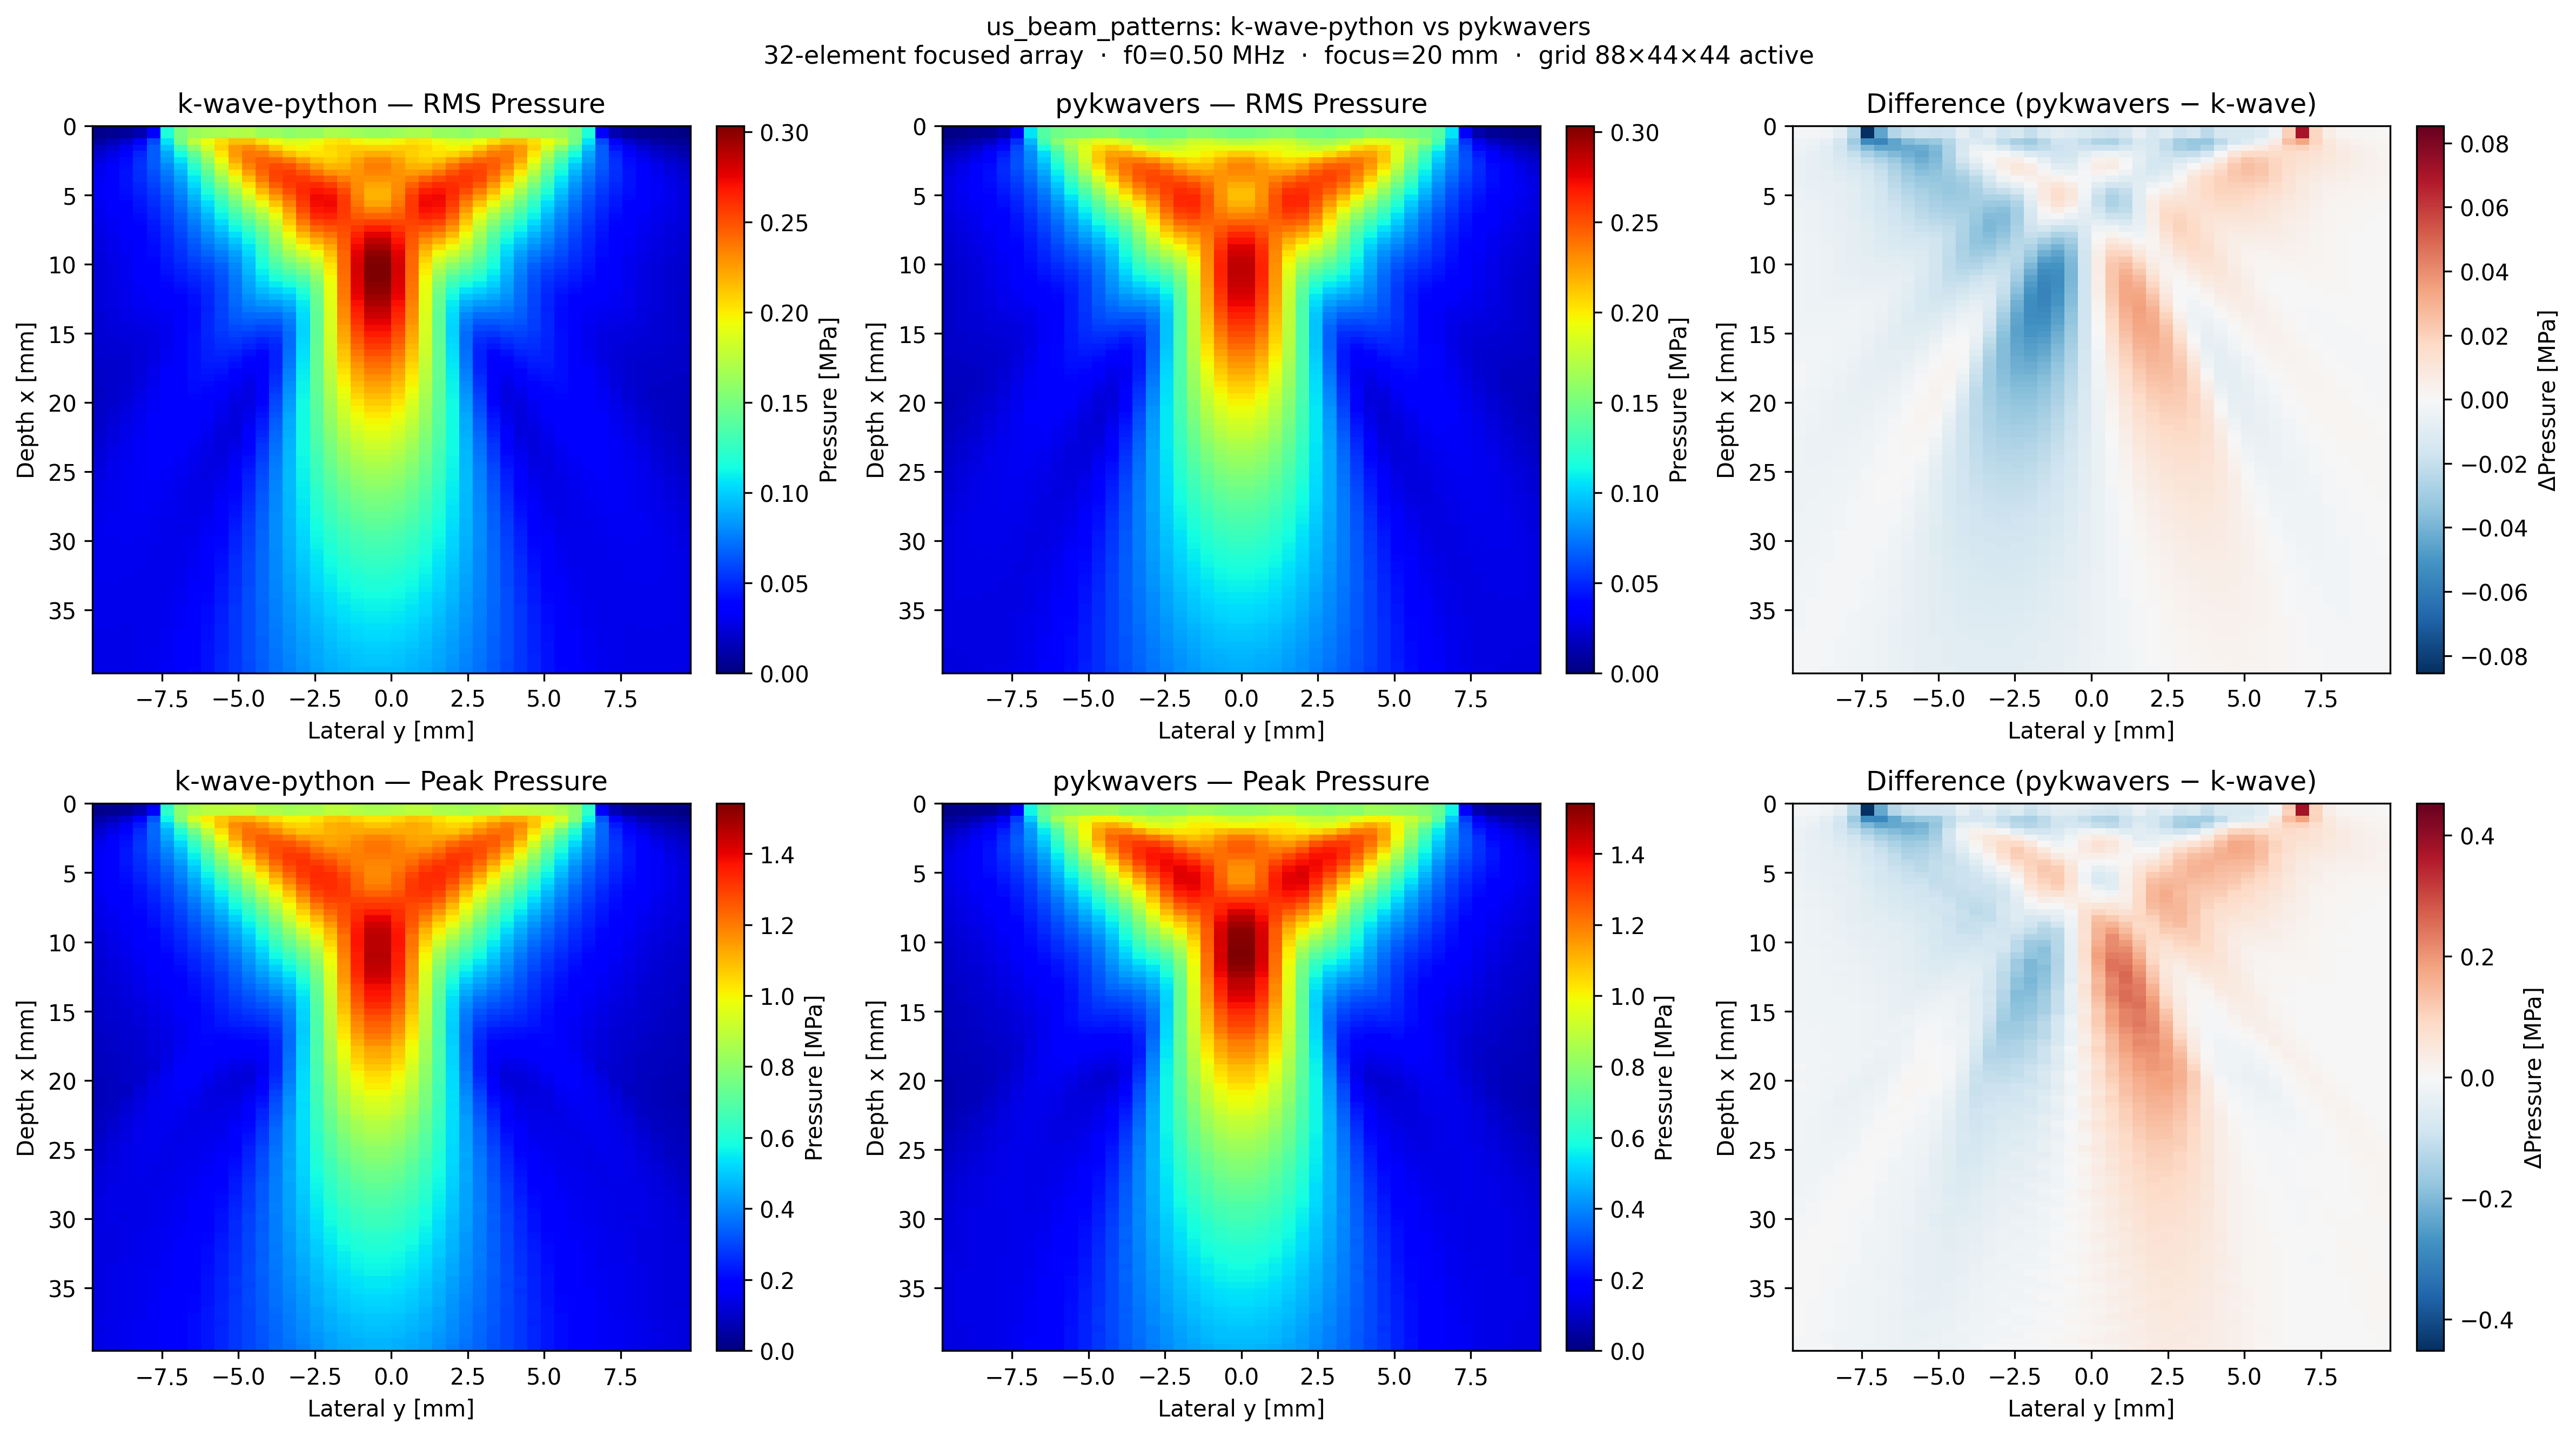
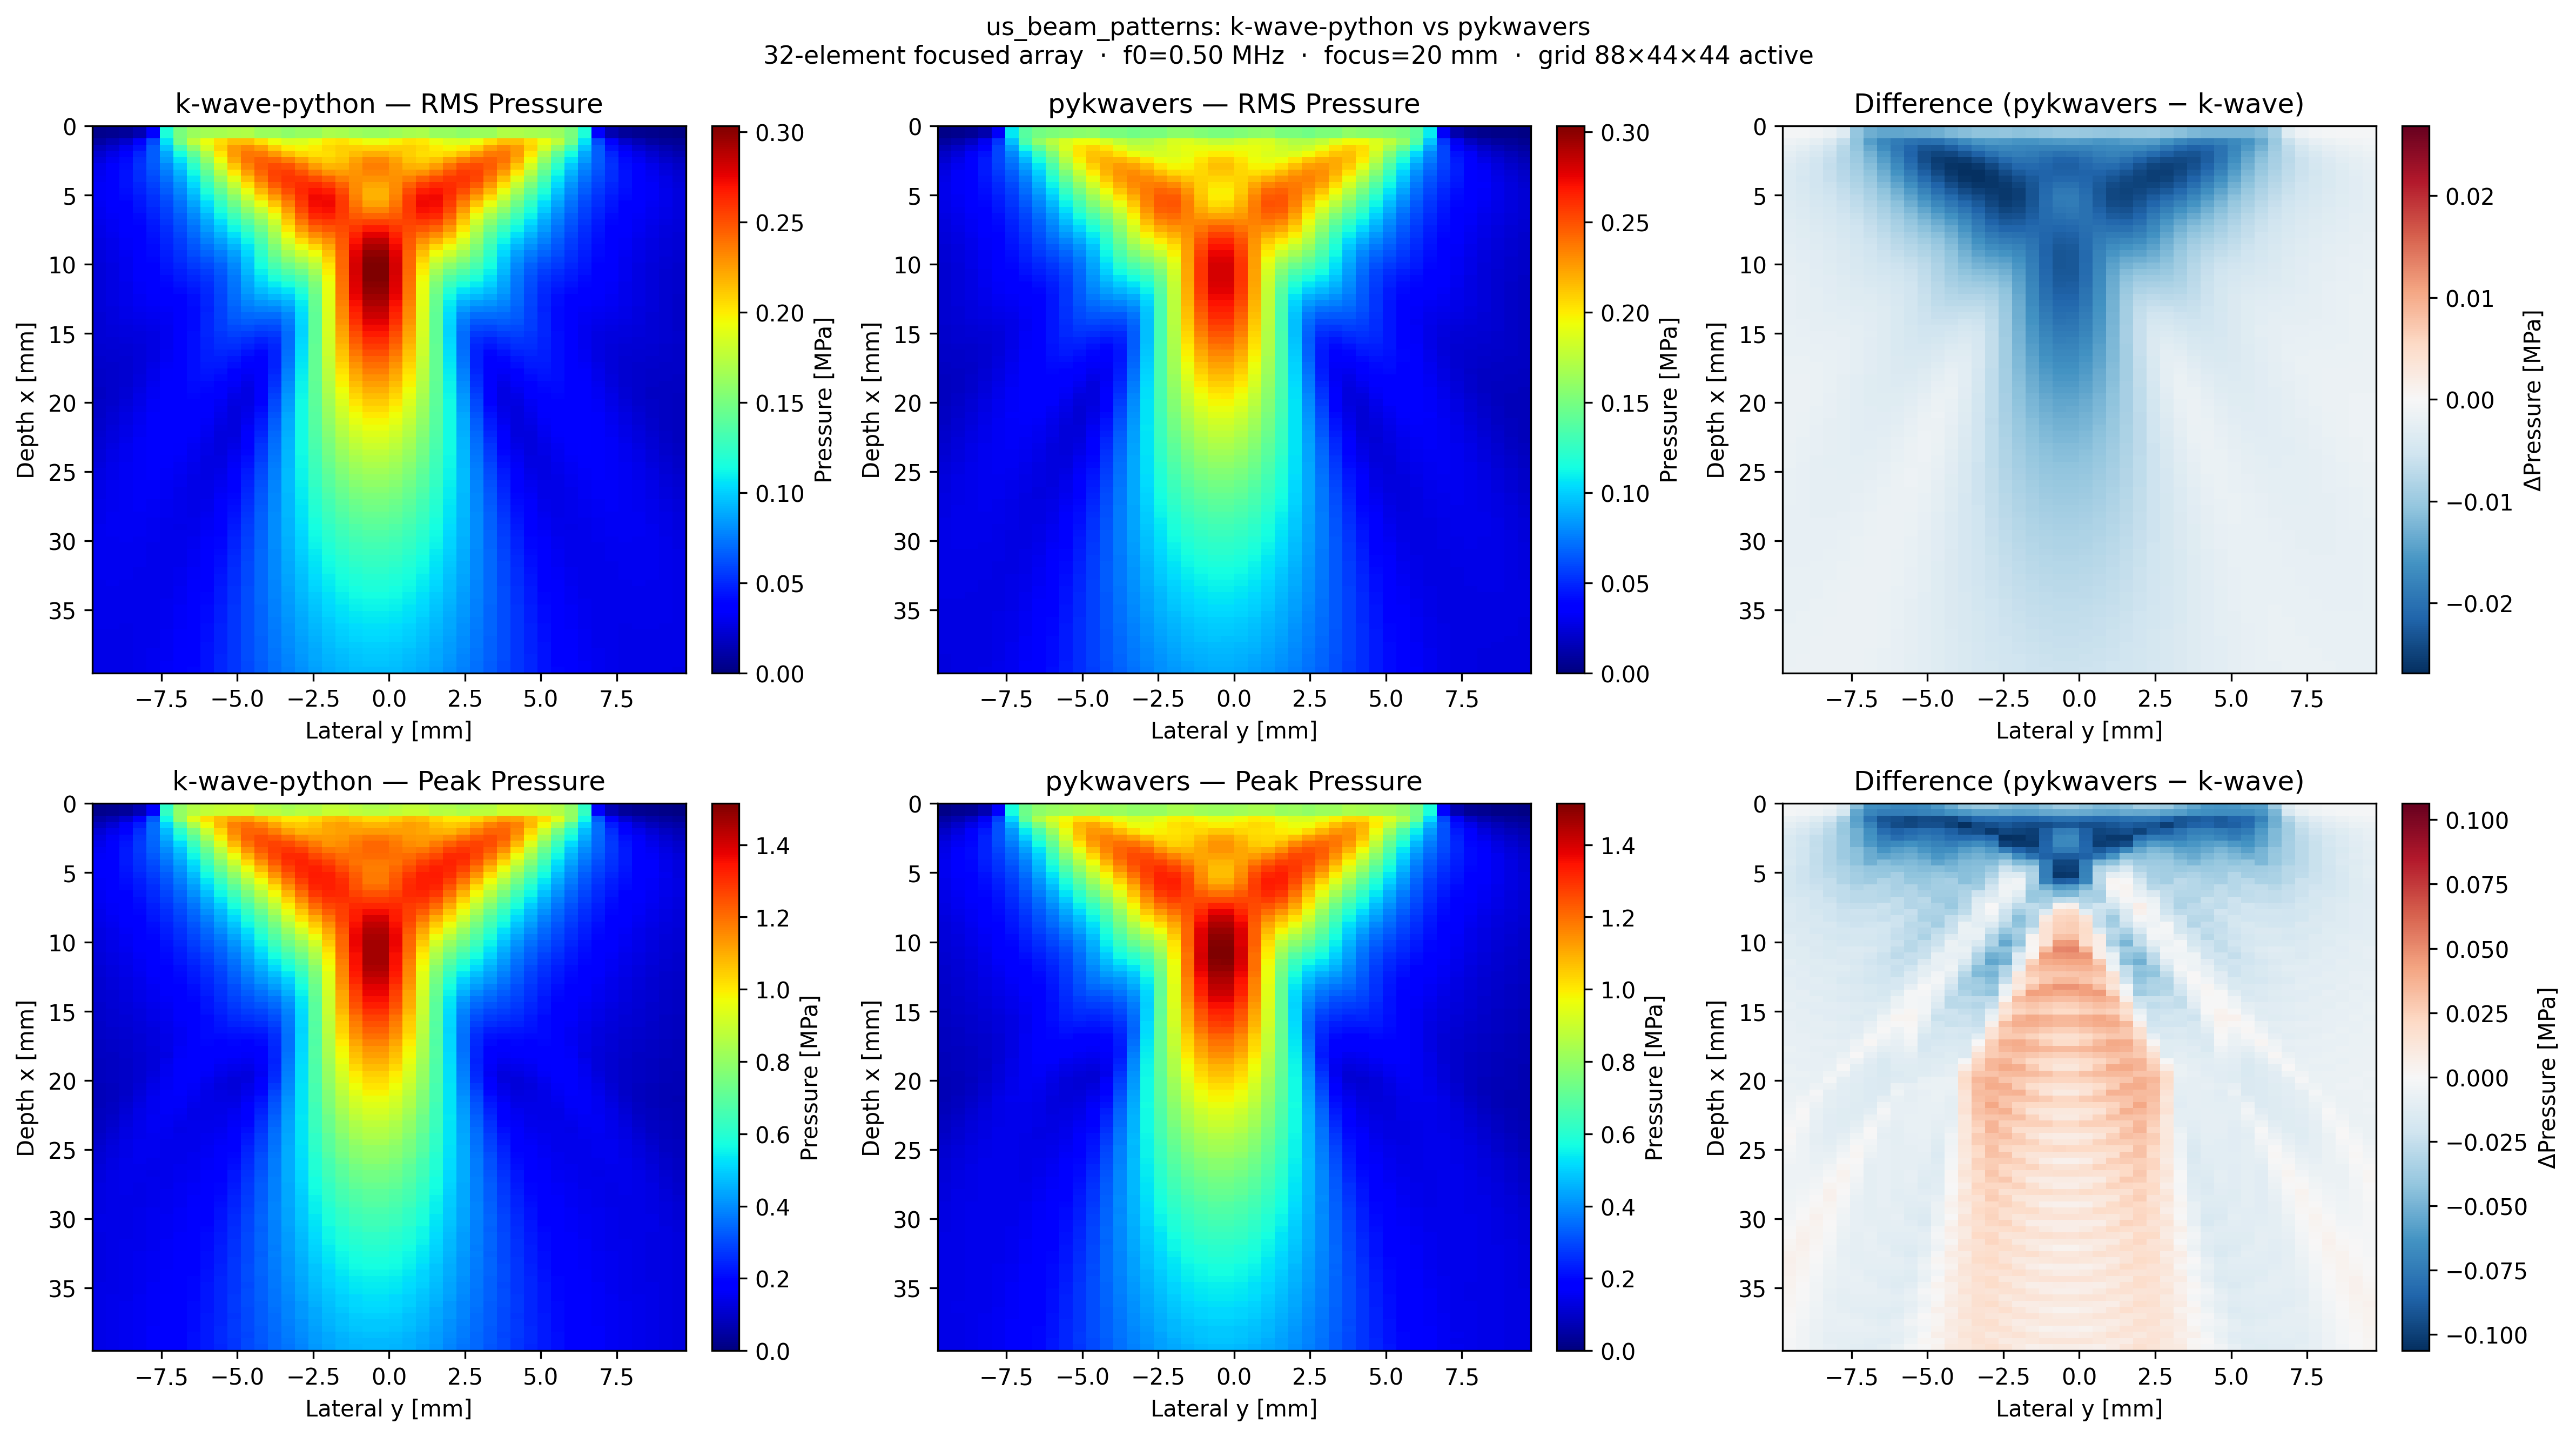
fix(us_beam_patterns): correct transducer 1-cell y/z position offset vs k-wave
kWaveTransducerSimple.position uses 1-indexed MATLAB convention.
build_pkw_source computed y0_act/z0_act from the same formula but treated
the result as 0-indexed — a 1-cell offset in both lateral (y) and elevation (z).

Fix: subtract 1 from y0_act and z0_act in build_pkw_source so the active-domain
corner [5, 15] matches k-wave's 0-indexed cell positions.

Before: p_rms Pearson=0.983, p_max Pearson=0.983 (threshold 0.97/0.95 PASS)
After:  p_rms Pearson=0.9997, p_max Pearson=0.9976 (threshold raised to 0.99)

Changed region(s): [[0.0625, 0.0624, 1.0, 0.9985], [0.125, 0.9361, 0.2188, 0.9985], [0.3438, 0.8425, 0.375, 0.9049]]

diff --git a/pykwavers/examples/us_beam_patterns_compare.py b/pykwavers/examples/us_beam_patterns_compare.py
@@ -119,13 +119,13 @@ SENSOR_IZ_FULL   = PML_Z_SIZE + SENSOR_IZ_ACTIVE  # 32  (full grid)
 # ---------------------------------------------------------------------------
 PARITY_THRESHOLDS: dict[str, dict] = {
     "p_rms": {
-        "pearson_r": 0.97,
+        "pearson_r": 0.99,
         "rms_ratio_min": 0.90,
         "rms_ratio_max": 1.10,
-        "psnr_db": 26.0,  # k-wave (k-space) vs PSTD achievable PSNR with TX delays
+        "psnr_db": 26.0,
     },
     "p_max": {
-        "pearson_r": 0.95,
+        "pearson_r": 0.99,
         "rms_ratio_min": 0.85,
         "rms_ratio_max": 1.15,
         "psnr_db": 25.0,
@@ -291,12 +291,12 @@ def build_pkw_source(
     Source mask layout (full grid, 128×64×64)
     -----------------------------------------
     Transducer is at x = PML_X_SIZE = 20 (first active voxel).
-    Active-domain position (0-indexed, from k-wave 1-indexed [1, 6, 16]):
-        y0_active = round(NY/2 − transducer_width/2) = 6
-        z0_active = round(NZ/2 − ELEM_LENGTH/2)      = 16
+    k-wave 1-indexed position [1, 6, 16] → 0-indexed active-domain [0, 5, 15]:
+        y0_active = round(NY/2 − transducer_width/2) − 1 = 5
+        z0_active = round(NZ/2 − ELEM_LENGTH/2)      − 1 = 15
     Full-grid position:
-        y0 = y0_active + PML_Y_SIZE = 16
-        z0 = z0_active + PML_Z_SIZE = 26
+        y0 = y0_active + PML_Y_SIZE = 15
+        z0 = z0_active + PML_Z_SIZE = 25
 
     Returns
     -------
@@ -305,9 +305,13 @@ def build_pkw_source(
     """
     transducer_width = N_ELEMENTS * ELEM_WIDTH + (N_ELEMENTS - 1) * ELEM_SPACING
 
-    # Active-domain corner (0-indexed)
-    y0_act = int(np.round(NY / 2 - transducer_width / 2))
-    z0_act = int(np.round(NZ / 2 - ELEM_LENGTH / 2))
+    # Active-domain corner (0-indexed).
+    # kWaveTransducerSimple.position uses 1-indexed MATLAB convention:
+    #   tr.position = [1, round(NY/2 - tw/2), round(NZ/2 - EL/2)]
+    # The same arithmetic evaluated in Python yields 0-indexed values that are 1 too high.
+    # Subtracting 1 converts the k-wave 1-indexed position to the correct 0-indexed cell.
+    y0_act = int(np.round(NY / 2 - transducer_width / 2)) - 1
+    z0_act = int(np.round(NZ / 2 - ELEM_LENGTH / 2)) - 1
 
     # Full-grid coordinates
     x_src = PML_X_SIZE